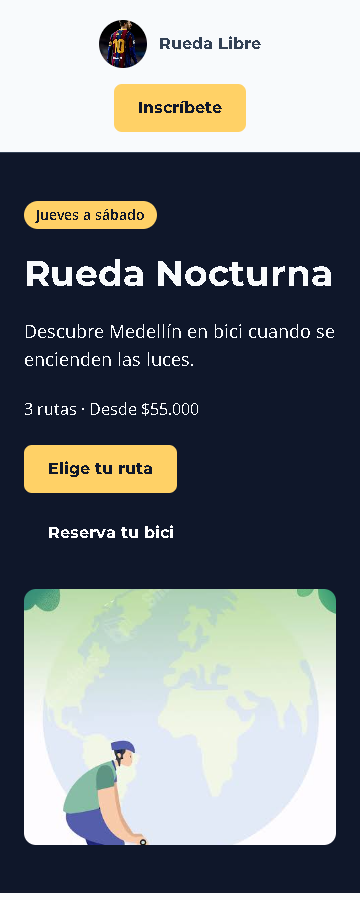
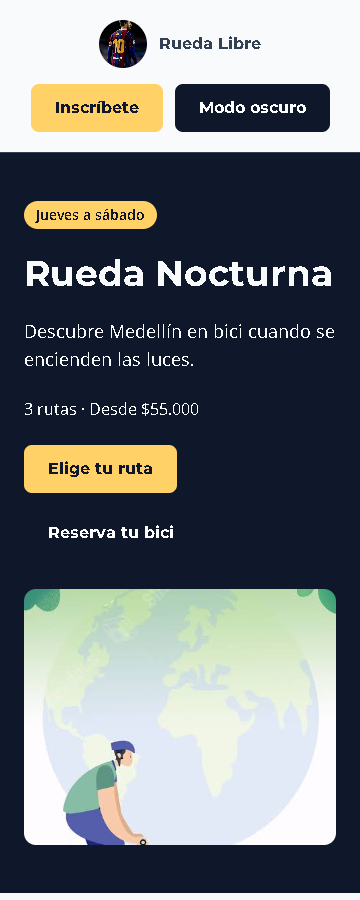
feat: añadir selector de modo oscuro y guardar la preferencia

Changed region(s): [[0.0611, 0.0933, 0.9167, 0.1556]]

diff --git a/nocturna/src/output.css b/nocturna/src/output.css
@@ -1,2 +1,2 @@
 /*! tailwindcss v4.3.4 | MIT License | https://tailwindcss.com */
-@layer properties{@supports (((-webkit-hyphens:none)) and (not (margin-trim:block))) or ((-moz-orient:inline) and (not (color:rgb(from red r g b)))){*,:before,:after,::backdrop{--tw-space-y-reverse:0;--tw-border-style:solid;--tw-leading:initial;--tw-font-weight:initial;--tw-tracking:initial;--tw-outline-style:solid}}}@layer theme{:root,:host{--font-sans:-apple-system, BlinkMacSystemFont, "Segoe UI", Roboto, "Helvetica Neue", "Noto Sans", Arial, sans-serif, "Apple Color Emoji", "Segoe UI Emoji", "Segoe UI Symbol", "Noto Color Emoji";--font-mono:ui-monospace, SFMono-Regular, Menlo, Monaco, Consolas, "Liberation Mono", "Courier New", monospace;--color-amber-300:oklch(87.9% .169 91.605);--color-slate-300:oklch(86.9% .022 252.894);--color-slate-950:oklch(12.9% .042 264.695);--color-white:#fff;--spacing:.25rem;--container-xl:36rem;--container-3xl:48rem;--container-6xl:72rem;--text-sm:.875rem;--text-sm--line-height:calc(1.25 / .875);--text-base:1rem;--text-base--line-height:calc(1.5 / 1);--text-lg:1.125rem;--text-lg--line-height:calc(1.75 / 1.125);--text-xl:1.25rem;--text-xl--line-height:calc(1.75 / 1.25);--text-2xl:1.5rem;--text-2xl--line-height:calc(2 / 1.5);--text-3xl:1.875rem;--text-3xl--line-height:calc(2.25 / 1.875);--text-4xl:2.25rem;--text-4xl--line-height:calc(2.5 / 2.25);--text-5xl:3rem;--text-5xl--line-height:1;--text-6xl:3.75rem;--text-6xl--line-height:1;--font-weight-normal:400;--font-weight-semibold:600;--font-weight-bold:700;--tracking-wide:.025em;--leading-tight:1.25;--leading-relaxed:1.625;--radius-lg:.5rem;--radius-xl:.75rem;--default-font-family:var(--font-sans);--default-mono-font-family:var(--font-mono);--color-verde-ruta:#0284c7;--color-azul-noche:#0f172a;--color-gris-asfalto:#334155;--color-crema:#f8fafc;--color-amarillo-farol:#ffd166;--font-titulo:"Montserrat", sans-serif;--font-cuerpo:"Open Sans", sans-serif}}@layer base{*,:after,:before,::backdrop{box-sizing:border-box;border:0 solid;margin:0;padding:0}::file-selector-button{box-sizing:border-box;border:0 solid;margin:0;padding:0}html,:host{-webkit-text-size-adjust:100%;tab-size:4;line-height:1.5;font-family:var(--default-font-family,-apple-system, BlinkMacSystemFont, "Segoe UI", Roboto, "Helvetica Neue", "Noto Sans", Arial, sans-serif, "Apple Color Emoji", "Segoe UI Emoji", "Segoe UI Symbol", "Noto Color Emoji");font-feature-settings:var(--default-font-feature-settings,normal);font-variation-settings:var(--default-font-variation-settings,normal);-webkit-tap-highlight-color:transparent}hr{height:0;color:inherit;border-top-width:1px}abbr:where([title]){-webkit-text-decoration:underline dotted;text-decoration:underline dotted}h1,h2,h3,h4,h5,h6{font-size:inherit;font-weight:inherit}a{color:inherit;-webkit-text-decoration:inherit;-webkit-text-decoration:inherit;-webkit-text-decoration:inherit;text-decoration:inherit}b,strong{font-weight:bolder}code,kbd,samp,pre{font-family:var(--default-mono-font-family,ui-monospace, SFMono-Regular, Menlo, Monaco, Consolas, "Liberation Mono", "Courier New", monospace);font-feature-settings:var(--default-mono-font-feature-settings,normal);font-variation-settings:var(--default-mono-font-variation-settings,normal);font-size:1em}small{font-size:80%}sub,sup{vertical-align:baseline;font-size:75%;line-height:0;position:relative}sub{bottom:-.25em}sup{top:-.5em}table{text-indent:0;border-color:inherit;border-collapse:collapse}:-moz-focusring:where(:not(iframe)){outline:auto}progress{vertical-align:baseline}summary{display:list-item}ol,ul,menu{list-style:none}img,svg,video,canvas,audio,iframe,embed,object{vertical-align:middle;display:block}img,video{max-width:100%;height:auto}button,input,select,optgroup,textarea{font:inherit;font-feature-settings:inherit;font-variation-settings:inherit;letter-spacing:inherit;color:inherit;opacity:1;background-color:#0000;border-radius:0}::file-selector-button{font:inherit;font-feature-settings:inherit;font-variation-settings:inherit;letter-spacing:inherit;color:inherit;opacity:1;background-color:#0000;border-radius:0}:where(select:is([multiple],[size])) optgroup{font-weight:bolder}:where(select:is([multiple],[size])) optgroup option{padding-inline-start:20px}::file-selector-button{margin-inline-end:4px}::placeholder{opacity:1}@supports (not ((-webkit-appearance:-apple-pay-button))) or (contain-intrinsic-size:1px){::placeholder{color:currentColor}@supports (color:color-mix(in lab, red, red)){::placeholder{color:color-mix(in oklab, currentcolor 50%, transparent)}}}textarea{resize:vertical}::-webkit-search-decoration{-webkit-appearance:none}::-webkit-date-and-time-value{min-height:1lh;text-align:inherit}::-webkit-datetime-edit{display:inline-flex}::-webkit-datetime-edit-fields-wrapper{padding:0}::-webkit-datetime-edit{padding-block:0}::-webkit-datetime-edit-year-field{padding-block:0}::-webkit-datetime-edit-month-field{padding-block:0}::-webkit-datetime-edit-day-field{padding-block:0}::-webkit-datetime-edit-hour-field{padding-block:0}::-webkit-datetime-edit-minute-field{padding-block:0}::-webkit-datetime-edit-second-field{padding-block:0}::-webkit-datetime-edit-millisecond-field{padding-block:0}::-webkit-datetime-edit-meridiem-field{padding-block:0}::-webkit-calendar-picker-indicator{line-height:1}:-moz-ui-invalid{box-shadow:none}button,input:where([type=button],[type=reset],[type=submit]){appearance:button}::file-selector-button{appearance:button}::-webkit-inner-spin-button{height:auto}::-webkit-outer-spin-button{height:auto}[hidden]:where(:not([hidden=until-found])){display:none!important}}@layer components{.btn-principal{border-radius:var(--radius-lg);background-color:var(--color-amarillo-farol);padding-inline:calc(var(--spacing) * 6);padding-block:calc(var(--spacing) * 3);font-family:var(--font-titulo);--tw-font-weight:var(--font-weight-bold);font-weight:var(--font-weight-bold);color:var(--color-azul-noche);justify-content:center;align-items:center;display:inline-flex}@media (hover:hover){.btn-principal:hover{background-color:var(--color-white)}}.btn-principal:focus-visible{outline-style:var(--tw-outline-style);outline-offset:4px;outline-width:2px;outline-color:var(--color-verde-ruta)}@media (prefers-color-scheme:dark){.btn-principal:focus-visible{outline-color:var(--color-amarillo-farol)}}.btn-secundario{border-radius:var(--radius-lg);background-color:var(--color-azul-noche);padding-inline:calc(var(--spacing) * 6);padding-block:calc(var(--spacing) * 3);font-family:var(--font-titulo);--tw-font-weight:var(--font-weight-bold);font-weight:var(--font-weight-bold);color:var(--color-white);justify-content:center;align-items:center;display:inline-flex}@media (hover:hover){.btn-secundario:hover{background-color:var(--color-gris-asfalto)}}.btn-secundario:focus-visible{outline-style:var(--tw-outline-style);outline-offset:4px;outline-width:2px;outline-color:var(--color-verde-ruta)}@media (prefers-color-scheme:dark){.btn-secundario{background-color:var(--color-crema);color:var(--color-azul-noche)}@media (hover:hover){.btn-secundario:hover{background-color:var(--color-amarillo-farol)}}.btn-secundario:focus-visible{outline-color:var(--color-amarillo-farol)}}}@layer utilities{.absolute{position:absolute}.relative{position:relative}.-top-4{top:calc(var(--spacing) * -4)}.left-6{left:calc(var(--spacing) * 6)}.mx-auto{margin-inline:auto}.block{display:block}.flex{display:flex}.grid{display:grid}.hidden{display:none}.inline-block{display:inline-block}.inline-flex{display:inline-flex}.h-5{height:calc(var(--spacing) * 5)}.h-10{height:calc(var(--spacing) * 10)}.h-12{height:calc(var(--spacing) * 12)}.h-40{height:calc(var(--spacing) * 40)}.h-64{height:calc(var(--spacing) * 64)}.h-full{height:100%}.w-5{width:calc(var(--spacing) * 5)}.w-10{width:calc(var(--spacing) * 10)}.w-12{width:calc(var(--spacing) * 12)}.w-full{width:100%}.max-w-3xl{max-width:var(--container-3xl)}.max-w-6xl{max-width:var(--container-6xl)}.max-w-xl{max-width:var(--container-xl)}.shrink-0{flex-shrink:0}.grow{flex-grow:1}.grid-cols-1{grid-template-columns:repeat(1,minmax(0,1fr))}.flex-col{flex-direction:column}.flex-wrap{flex-wrap:wrap}.items-center{align-items:center}.justify-between{justify-content:space-between}.justify-center{justify-content:center}.gap-2{gap:calc(var(--spacing) * 2)}.gap-3{gap:calc(var(--spacing) * 3)}.gap-4{gap:calc(var(--spacing) * 4)}.gap-6{gap:calc(var(--spacing) * 6)}.gap-8{gap:calc(var(--spacing) * 8)}:where(.space-y-2>:not(:last-child)){--tw-space-y-reverse:0;margin-block-start:calc(calc(var(--spacing) * 2) * var(--tw-space-y-reverse));margin-block-end:calc(calc(var(--spacing) * 2) * calc(1 - var(--tw-space-y-reverse)))}:where(.space-y-3>:not(:last-child)){--tw-space-y-reverse:0;margin-block-start:calc(calc(var(--spacing) * 3) * var(--tw-space-y-reverse));margin-block-end:calc(calc(var(--spacing) * 3) * calc(1 - var(--tw-space-y-reverse)))}:where(.space-y-4>:not(:last-child)){--tw-space-y-reverse:0;margin-block-start:calc(calc(var(--spacing) * 4) * var(--tw-space-y-reverse));margin-block-end:calc(calc(var(--spacing) * 4) * calc(1 - var(--tw-space-y-reverse)))}:where(.space-y-6>:not(:last-child)){--tw-space-y-reverse:0;margin-block-start:calc(calc(var(--spacing) * 6) * var(--tw-space-y-reverse));margin-block-end:calc(calc(var(--spacing) * 6) * calc(1 - var(--tw-space-y-reverse)))}:where(.space-y-8>:not(:last-child)){--tw-space-y-reverse:0;margin-block-start:calc(calc(var(--spacing) * 8) * var(--tw-space-y-reverse));margin-block-end:calc(calc(var(--spacing) * 8) * calc(1 - var(--tw-space-y-reverse)))}.self-start{align-self:flex-start}.rounded-full{border-radius:2147483647px}.rounded-lg{border-radius:var(--radius-lg)}.rounded-xl{border-radius:var(--radius-xl)}.border{border-style:var(--tw-border-style);border-width:1px}.border-t{border-top-style:var(--tw-border-style);border-top-width:1px}.border-t-4{border-top-style:var(--tw-border-style);border-top-width:4px}.border-b{border-bottom-style:var(--tw-border-style);border-bottom-width:1px}.border-azul-noche{border-color:var(--color-azul-noche)}.border-gris-asfalto{border-color:var(--color-gris-asfalto)}.bg-amarillo-farol{background-color:var(--color-amarillo-farol)}.bg-amber-300{background-color:var(--color-amber-300)}.bg-azul-noche{background-color:var(--color-azul-noche)}.bg-crema{background-color:var(--color-crema)}.bg-slate-950{background-color:var(--color-slate-950)}.bg-white{background-color:var(--color-white)}.object-cover{object-fit:cover}.p-6{padding:calc(var(--spacing) * 6)}.px-2{padding-inline:calc(var(--spacing) * 2)}.px-3{padding-inline:calc(var(--spacing) * 3)}.px-4{padding-inline:calc(var(--spacing) * 4)}.px-6{padding-inline:calc(var(--spacing) * 6)}.py-1{padding-block:var(--spacing)}.py-3{padding-block:calc(var(--spacing) * 3)}.py-5{padding-block:calc(var(--spacing) * 5)}.py-8{padding-block:calc(var(--spacing) * 8)}.py-12{padding-block:calc(var(--spacing) * 12)}.font-cuerpo{font-family:var(--font-cuerpo)}.font-sans{font-family:var(--font-sans)}.font-titulo{font-family:var(--font-titulo)}.text-2xl{font-size:var(--text-2xl);line-height:var(--tw-leading,var(--text-2xl--line-height))}.text-3xl{font-size:var(--text-3xl);line-height:var(--tw-leading,var(--text-3xl--line-height))}.text-4xl{font-size:var(--text-4xl);line-height:var(--tw-leading,var(--text-4xl--line-height))}.text-5xl{font-size:var(--text-5xl);line-height:var(--tw-leading,var(--text-5xl--line-height))}.text-base{font-size:var(--text-base);line-height:var(--tw-leading,var(--text-base--line-height))}.text-lg{font-size:var(--text-lg);line-height:var(--tw-leading,var(--text-lg--line-height))}.text-sm{font-size:var(--text-sm);line-height:var(--tw-leading,var(--text-sm--line-height))}.text-xl{font-size:var(--text-xl);line-height:var(--tw-leading,var(--text-xl--line-height))}.leading-relaxed{--tw-leading:var(--leading-relaxed);line-height:var(--leading-relaxed)}.leading-tight{--tw-leading:var(--leading-tight);line-height:var(--leading-tight)}.font-bold{--tw-font-weight:var(--font-weight-bold);font-weight:var(--font-weight-bold)}.font-normal{--tw-font-weight:var(--font-weight-normal);font-weight:var(--font-weight-normal)}.font-semibold{--tw-font-weight:var(--font-weight-semibold);font-weight:var(--font-weight-semibold)}.tracking-wide{--tw-tracking:var(--tracking-wide);letter-spacing:var(--tracking-wide)}.break-all{word-break:break-all}.text-amber-300{color:var(--color-amber-300)}.text-azul-noche{color:var(--color-azul-noche)}.text-crema{color:var(--color-crema)}.text-gris-asfalto{color:var(--color-gris-asfalto)}.text-slate-300{color:var(--color-slate-300)}.text-slate-950{color:var(--color-slate-950)}.text-white{color:var(--color-white)}.uppercase{text-transform:uppercase}.underline{text-decoration-line:underline}.accent-azul-noche{accent-color:var(--color-azul-noche)}@media (hover:hover){.hover\:underline:hover{text-decoration-line:underline}}.focus\:outline-2:focus{outline-style:var(--tw-outline-style);outline-width:2px}.focus\:outline-offset-2:focus{outline-offset:2px}.focus\:outline-verde-ruta:focus{outline-color:var(--color-verde-ruta)}@media (min-width:40rem){.sm\:grid-cols-2{grid-template-columns:repeat(2,minmax(0,1fr))}}@media (min-width:48rem){.md\:flex{display:flex}.md\:grid-cols-2{grid-template-columns:repeat(2,minmax(0,1fr))}.md\:flex-row{flex-direction:row}}@media (min-width:64rem){.lg\:h-80{height:calc(var(--spacing) * 80)}.lg\:grid-cols-3{grid-template-columns:repeat(3,minmax(0,1fr))}.lg\:grid-cols-4{grid-template-columns:repeat(4,minmax(0,1fr))}.lg\:py-20{padding-block:calc(var(--spacing) * 20)}.lg\:text-3xl{font-size:var(--text-3xl);line-height:var(--tw-leading,var(--text-3xl--line-height))}.lg\:text-6xl{font-size:var(--text-6xl);line-height:var(--tw-leading,var(--text-6xl--line-height))}.lg\:text-xl{font-size:var(--text-xl);line-height:var(--tw-leading,var(--text-xl--line-height))}}@media (prefers-color-scheme:dark){.dark\:border-amarillo-farol{border-color:var(--color-amarillo-farol)}.dark\:border-crema{border-color:var(--color-crema)}.dark\:bg-amarillo-farol{background-color:var(--color-amarillo-farol)}.dark\:bg-azul-noche{background-color:var(--color-azul-noche)}.dark\:bg-gris-asfalto{background-color:var(--color-gris-asfalto)}.dark\:text-amarillo-farol{color:var(--color-amarillo-farol)}.dark\:text-azul-noche{color:var(--color-azul-noche)}.dark\:text-crema{color:var(--color-crema)}.dark\:accent-amarillo-farol{accent-color:var(--color-amarillo-farol)}.dark\:focus\:outline-amarillo-farol:focus{outline-color:var(--color-amarillo-farol)}}}@property --tw-space-y-reverse{syntax:"*";inherits:false;initial-value:0}@property --tw-border-style{syntax:"*";inherits:false;initial-value:solid}@property --tw-leading{syntax:"*";inherits:false}@property --tw-font-weight{syntax:"*";inherits:false}@property --tw-tracking{syntax:"*";inherits:false}@property --tw-outline-style{syntax:"*";inherits:false;initial-value:solid}
+@layer properties{@supports (((-webkit-hyphens:none)) and (not (margin-trim:block))) or ((-moz-orient:inline) and (not (color:rgb(from red r g b)))){*,:before,:after,::backdrop{--tw-space-y-reverse:0;--tw-border-style:solid;--tw-leading:initial;--tw-font-weight:initial;--tw-tracking:initial;--tw-outline-style:solid}}}@layer theme{:root,:host{--font-sans:-apple-system, BlinkMacSystemFont, "Segoe UI", Roboto, "Helvetica Neue", "Noto Sans", Arial, sans-serif, "Apple Color Emoji", "Segoe UI Emoji", "Segoe UI Symbol", "Noto Color Emoji";--font-mono:ui-monospace, SFMono-Regular, Menlo, Monaco, Consolas, "Liberation Mono", "Courier New", monospace;--color-amber-300:oklch(87.9% .169 91.605);--color-slate-300:oklch(86.9% .022 252.894);--color-slate-950:oklch(12.9% .042 264.695);--color-white:#fff;--spacing:.25rem;--container-xl:36rem;--container-3xl:48rem;--container-6xl:72rem;--text-sm:.875rem;--text-sm--line-height:calc(1.25 / .875);--text-base:1rem;--text-base--line-height:calc(1.5 / 1);--text-lg:1.125rem;--text-lg--line-height:calc(1.75 / 1.125);--text-xl:1.25rem;--text-xl--line-height:calc(1.75 / 1.25);--text-2xl:1.5rem;--text-2xl--line-height:calc(2 / 1.5);--text-3xl:1.875rem;--text-3xl--line-height:calc(2.25 / 1.875);--text-4xl:2.25rem;--text-4xl--line-height:calc(2.5 / 2.25);--text-5xl:3rem;--text-5xl--line-height:1;--text-6xl:3.75rem;--text-6xl--line-height:1;--font-weight-normal:400;--font-weight-semibold:600;--font-weight-bold:700;--tracking-wide:.025em;--leading-tight:1.25;--leading-relaxed:1.625;--radius-lg:.5rem;--radius-xl:.75rem;--default-font-family:var(--font-sans);--default-mono-font-family:var(--font-mono);--color-verde-ruta:#0284c7;--color-azul-noche:#0f172a;--color-gris-asfalto:#334155;--color-crema:#f8fafc;--color-amarillo-farol:#ffd166;--font-titulo:"Montserrat", sans-serif;--font-cuerpo:"Open Sans", sans-serif}}@layer base{*,:after,:before,::backdrop{box-sizing:border-box;border:0 solid;margin:0;padding:0}::file-selector-button{box-sizing:border-box;border:0 solid;margin:0;padding:0}html,:host{-webkit-text-size-adjust:100%;tab-size:4;line-height:1.5;font-family:var(--default-font-family,-apple-system, BlinkMacSystemFont, "Segoe UI", Roboto, "Helvetica Neue", "Noto Sans", Arial, sans-serif, "Apple Color Emoji", "Segoe UI Emoji", "Segoe UI Symbol", "Noto Color Emoji");font-feature-settings:var(--default-font-feature-settings,normal);font-variation-settings:var(--default-font-variation-settings,normal);-webkit-tap-highlight-color:transparent}hr{height:0;color:inherit;border-top-width:1px}abbr:where([title]){-webkit-text-decoration:underline dotted;text-decoration:underline dotted}h1,h2,h3,h4,h5,h6{font-size:inherit;font-weight:inherit}a{color:inherit;-webkit-text-decoration:inherit;-webkit-text-decoration:inherit;-webkit-text-decoration:inherit;text-decoration:inherit}b,strong{font-weight:bolder}code,kbd,samp,pre{font-family:var(--default-mono-font-family,ui-monospace, SFMono-Regular, Menlo, Monaco, Consolas, "Liberation Mono", "Courier New", monospace);font-feature-settings:var(--default-mono-font-feature-settings,normal);font-variation-settings:var(--default-mono-font-variation-settings,normal);font-size:1em}small{font-size:80%}sub,sup{vertical-align:baseline;font-size:75%;line-height:0;position:relative}sub{bottom:-.25em}sup{top:-.5em}table{text-indent:0;border-color:inherit;border-collapse:collapse}:-moz-focusring:where(:not(iframe)){outline:auto}progress{vertical-align:baseline}summary{display:list-item}ol,ul,menu{list-style:none}img,svg,video,canvas,audio,iframe,embed,object{vertical-align:middle;display:block}img,video{max-width:100%;height:auto}button,input,select,optgroup,textarea{font:inherit;font-feature-settings:inherit;font-variation-settings:inherit;letter-spacing:inherit;color:inherit;opacity:1;background-color:#0000;border-radius:0}::file-selector-button{font:inherit;font-feature-settings:inherit;font-variation-settings:inherit;letter-spacing:inherit;color:inherit;opacity:1;background-color:#0000;border-radius:0}:where(select:is([multiple],[size])) optgroup{font-weight:bolder}:where(select:is([multiple],[size])) optgroup option{padding-inline-start:20px}::file-selector-button{margin-inline-end:4px}::placeholder{opacity:1}@supports (not ((-webkit-appearance:-apple-pay-button))) or (contain-intrinsic-size:1px){::placeholder{color:currentColor}@supports (color:color-mix(in lab, red, red)){::placeholder{color:color-mix(in oklab, currentcolor 50%, transparent)}}}textarea{resize:vertical}::-webkit-search-decoration{-webkit-appearance:none}::-webkit-date-and-time-value{min-height:1lh;text-align:inherit}::-webkit-datetime-edit{display:inline-flex}::-webkit-datetime-edit-fields-wrapper{padding:0}::-webkit-datetime-edit{padding-block:0}::-webkit-datetime-edit-year-field{padding-block:0}::-webkit-datetime-edit-month-field{padding-block:0}::-webkit-datetime-edit-day-field{padding-block:0}::-webkit-datetime-edit-hour-field{padding-block:0}::-webkit-datetime-edit-minute-field{padding-block:0}::-webkit-datetime-edit-second-field{padding-block:0}::-webkit-datetime-edit-millisecond-field{padding-block:0}::-webkit-datetime-edit-meridiem-field{padding-block:0}::-webkit-calendar-picker-indicator{line-height:1}:-moz-ui-invalid{box-shadow:none}button,input:where([type=button],[type=reset],[type=submit]){appearance:button}::file-selector-button{appearance:button}::-webkit-inner-spin-button{height:auto}::-webkit-outer-spin-button{height:auto}[hidden]:where(:not([hidden=until-found])){display:none!important}:root{color-scheme:light}:root.dark{color-scheme:dark}}@layer components{.btn-principal{border-radius:var(--radius-lg);background-color:var(--color-amarillo-farol);padding-inline:calc(var(--spacing) * 6);padding-block:calc(var(--spacing) * 3);font-family:var(--font-titulo);--tw-font-weight:var(--font-weight-bold);font-weight:var(--font-weight-bold);color:var(--color-azul-noche);justify-content:center;align-items:center;display:inline-flex}@media (hover:hover){.btn-principal:hover{background-color:var(--color-white)}}.btn-principal:focus-visible{outline-style:var(--tw-outline-style);outline-offset:4px;outline-width:2px;outline-color:var(--color-verde-ruta)}.btn-principal:where(.dark,.dark *):focus-visible{outline-color:var(--color-amarillo-farol)}.btn-secundario{border-radius:var(--radius-lg);background-color:var(--color-azul-noche);padding-inline:calc(var(--spacing) * 6);padding-block:calc(var(--spacing) * 3);font-family:var(--font-titulo);--tw-font-weight:var(--font-weight-bold);font-weight:var(--font-weight-bold);color:var(--color-white);justify-content:center;align-items:center;display:inline-flex}@media (hover:hover){.btn-secundario:hover{background-color:var(--color-gris-asfalto)}}.btn-secundario:focus-visible{outline-style:var(--tw-outline-style);outline-offset:4px;outline-width:2px;outline-color:var(--color-verde-ruta)}.btn-secundario:where(.dark,.dark *){background-color:var(--color-crema);color:var(--color-azul-noche)}@media (hover:hover){.btn-secundario:where(.dark,.dark *):hover{background-color:var(--color-amarillo-farol)}}.btn-secundario:where(.dark,.dark *):focus-visible{outline-color:var(--color-amarillo-farol)}}@layer utilities{.absolute{position:absolute}.relative{position:relative}.-top-4{top:calc(var(--spacing) * -4)}.left-6{left:calc(var(--spacing) * 6)}.mx-auto{margin-inline:auto}.block{display:block}.flex{display:flex}.grid{display:grid}.hidden{display:none}.inline-block{display:inline-block}.inline-flex{display:inline-flex}.h-5{height:calc(var(--spacing) * 5)}.h-10{height:calc(var(--spacing) * 10)}.h-12{height:calc(var(--spacing) * 12)}.h-40{height:calc(var(--spacing) * 40)}.h-64{height:calc(var(--spacing) * 64)}.h-full{height:100%}.w-5{width:calc(var(--spacing) * 5)}.w-10{width:calc(var(--spacing) * 10)}.w-12{width:calc(var(--spacing) * 12)}.w-full{width:100%}.max-w-3xl{max-width:var(--container-3xl)}.max-w-6xl{max-width:var(--container-6xl)}.max-w-xl{max-width:var(--container-xl)}.shrink-0{flex-shrink:0}.grow{flex-grow:1}.grid-cols-1{grid-template-columns:repeat(1,minmax(0,1fr))}.flex-col{flex-direction:column}.flex-wrap{flex-wrap:wrap}.items-center{align-items:center}.justify-between{justify-content:space-between}.justify-center{justify-content:center}.gap-2{gap:calc(var(--spacing) * 2)}.gap-3{gap:calc(var(--spacing) * 3)}.gap-4{gap:calc(var(--spacing) * 4)}.gap-6{gap:calc(var(--spacing) * 6)}.gap-8{gap:calc(var(--spacing) * 8)}:where(.space-y-2>:not(:last-child)){--tw-space-y-reverse:0;margin-block-start:calc(calc(var(--spacing) * 2) * var(--tw-space-y-reverse));margin-block-end:calc(calc(var(--spacing) * 2) * calc(1 - var(--tw-space-y-reverse)))}:where(.space-y-3>:not(:last-child)){--tw-space-y-reverse:0;margin-block-start:calc(calc(var(--spacing) * 3) * var(--tw-space-y-reverse));margin-block-end:calc(calc(var(--spacing) * 3) * calc(1 - var(--tw-space-y-reverse)))}:where(.space-y-4>:not(:last-child)){--tw-space-y-reverse:0;margin-block-start:calc(calc(var(--spacing) * 4) * var(--tw-space-y-reverse));margin-block-end:calc(calc(var(--spacing) * 4) * calc(1 - var(--tw-space-y-reverse)))}:where(.space-y-6>:not(:last-child)){--tw-space-y-reverse:0;margin-block-start:calc(calc(var(--spacing) * 6) * var(--tw-space-y-reverse));margin-block-end:calc(calc(var(--spacing) * 6) * calc(1 - var(--tw-space-y-reverse)))}:where(.space-y-8>:not(:last-child)){--tw-space-y-reverse:0;margin-block-start:calc(calc(var(--spacing) * 8) * var(--tw-space-y-reverse));margin-block-end:calc(calc(var(--spacing) * 8) * calc(1 - var(--tw-space-y-reverse)))}.self-start{align-self:flex-start}.rounded-full{border-radius:2147483647px}.rounded-lg{border-radius:var(--radius-lg)}.rounded-xl{border-radius:var(--radius-xl)}.border{border-style:var(--tw-border-style);border-width:1px}.border-t{border-top-style:var(--tw-border-style);border-top-width:1px}.border-t-4{border-top-style:var(--tw-border-style);border-top-width:4px}.border-b{border-bottom-style:var(--tw-border-style);border-bottom-width:1px}.border-azul-noche{border-color:var(--color-azul-noche)}.border-gris-asfalto{border-color:var(--color-gris-asfalto)}.bg-amarillo-farol{background-color:var(--color-amarillo-farol)}.bg-amber-300{background-color:var(--color-amber-300)}.bg-azul-noche{background-color:var(--color-azul-noche)}.bg-crema{background-color:var(--color-crema)}.bg-slate-950{background-color:var(--color-slate-950)}.bg-white{background-color:var(--color-white)}.object-cover{object-fit:cover}.p-6{padding:calc(var(--spacing) * 6)}.px-2{padding-inline:calc(var(--spacing) * 2)}.px-3{padding-inline:calc(var(--spacing) * 3)}.px-4{padding-inline:calc(var(--spacing) * 4)}.px-6{padding-inline:calc(var(--spacing) * 6)}.py-1{padding-block:var(--spacing)}.py-3{padding-block:calc(var(--spacing) * 3)}.py-5{padding-block:calc(var(--spacing) * 5)}.py-8{padding-block:calc(var(--spacing) * 8)}.py-12{padding-block:calc(var(--spacing) * 12)}.font-cuerpo{font-family:var(--font-cuerpo)}.font-sans{font-family:var(--font-sans)}.font-titulo{font-family:var(--font-titulo)}.text-2xl{font-size:var(--text-2xl);line-height:var(--tw-leading,var(--text-2xl--line-height))}.text-3xl{font-size:var(--text-3xl);line-height:var(--tw-leading,var(--text-3xl--line-height))}.text-4xl{font-size:var(--text-4xl);line-height:var(--tw-leading,var(--text-4xl--line-height))}.text-5xl{font-size:var(--text-5xl);line-height:var(--tw-leading,var(--text-5xl--line-height))}.text-base{font-size:var(--text-base);line-height:var(--tw-leading,var(--text-base--line-height))}.text-lg{font-size:var(--text-lg);line-height:var(--tw-leading,var(--text-lg--line-height))}.text-sm{font-size:var(--text-sm);line-height:var(--tw-leading,var(--text-sm--line-height))}.text-xl{font-size:var(--text-xl);line-height:var(--tw-leading,var(--text-xl--line-height))}.leading-relaxed{--tw-leading:var(--leading-relaxed);line-height:var(--leading-relaxed)}.leading-tight{--tw-leading:var(--leading-tight);line-height:var(--leading-tight)}.font-bold{--tw-font-weight:var(--font-weight-bold);font-weight:var(--font-weight-bold)}.font-normal{--tw-font-weight:var(--font-weight-normal);font-weight:var(--font-weight-normal)}.font-semibold{--tw-font-weight:var(--font-weight-semibold);font-weight:var(--font-weight-semibold)}.tracking-wide{--tw-tracking:var(--tracking-wide);letter-spacing:var(--tracking-wide)}.break-all{word-break:break-all}.text-amber-300{color:var(--color-amber-300)}.text-azul-noche{color:var(--color-azul-noche)}.text-crema{color:var(--color-crema)}.text-gris-asfalto{color:var(--color-gris-asfalto)}.text-slate-300{color:var(--color-slate-300)}.text-slate-950{color:var(--color-slate-950)}.text-white{color:var(--color-white)}.uppercase{text-transform:uppercase}.underline{text-decoration-line:underline}.accent-azul-noche{accent-color:var(--color-azul-noche)}@media (hover:hover){.hover\:underline:hover{text-decoration-line:underline}}.focus\:outline-2:focus{outline-style:var(--tw-outline-style);outline-width:2px}.focus\:outline-offset-2:focus{outline-offset:2px}.focus\:outline-verde-ruta:focus{outline-color:var(--color-verde-ruta)}@media (min-width:40rem){.sm\:grid-cols-2{grid-template-columns:repeat(2,minmax(0,1fr))}}@media (min-width:48rem){.md\:flex{display:flex}.md\:grid-cols-2{grid-template-columns:repeat(2,minmax(0,1fr))}.md\:flex-row{flex-direction:row}}@media (min-width:64rem){.lg\:h-80{height:calc(var(--spacing) * 80)}.lg\:grid-cols-3{grid-template-columns:repeat(3,minmax(0,1fr))}.lg\:grid-cols-4{grid-template-columns:repeat(4,minmax(0,1fr))}.lg\:gap-6{gap:calc(var(--spacing) * 6)}.lg\:py-20{padding-block:calc(var(--spacing) * 20)}.lg\:text-3xl{font-size:var(--text-3xl);line-height:var(--tw-leading,var(--text-3xl--line-height))}.lg\:text-6xl{font-size:var(--text-6xl);line-height:var(--tw-leading,var(--text-6xl--line-height))}.lg\:text-xl{font-size:var(--text-xl);line-height:var(--tw-leading,var(--text-xl--line-height))}}.dark\:border-amarillo-farol:where(.dark,.dark *){border-color:var(--color-amarillo-farol)}.dark\:border-crema:where(.dark,.dark *){border-color:var(--color-crema)}.dark\:bg-amarillo-farol:where(.dark,.dark *){background-color:var(--color-amarillo-farol)}.dark\:bg-azul-noche:where(.dark,.dark *){background-color:var(--color-azul-noche)}.dark\:bg-gris-asfalto:where(.dark,.dark *){background-color:var(--color-gris-asfalto)}.dark\:text-amarillo-farol:where(.dark,.dark *){color:var(--color-amarillo-farol)}.dark\:text-azul-noche:where(.dark,.dark *){color:var(--color-azul-noche)}.dark\:text-crema:where(.dark,.dark *){color:var(--color-crema)}.dark\:accent-amarillo-farol:where(.dark,.dark *){accent-color:var(--color-amarillo-farol)}.dark\:focus\:outline-amarillo-farol:where(.dark,.dark *):focus{outline-color:var(--color-amarillo-farol)}}@property --tw-space-y-reverse{syntax:"*";inherits:false;initial-value:0}@property --tw-border-style{syntax:"*";inherits:false;initial-value:solid}@property --tw-leading{syntax:"*";inherits:false}@property --tw-font-weight{syntax:"*";inherits:false}@property --tw-tracking{syntax:"*";inherits:false}@property --tw-outline-style{syntax:"*";inherits:false;initial-value:solid}

diff --git a/nocturna/index.html b/nocturna/index.html
@@ -10,6 +10,7 @@
     <link rel="preconnect" href="https://fonts.gstatic.com" crossorigin>
     <link href="https://fonts.googleapis.com/css2?family=Montserrat:wght@600;700&family=Open+Sans:wght@400;600&display=swap" rel="stylesheet">
     <link rel="stylesheet" href="src/output.css">
+    <script src="tema.js"></script>
 </head>
 <body class="bg-crema font-cuerpo text-gris-asfalto dark:bg-azul-noche dark:text-crema">
     <header class="border-b border-gris-asfalto dark:border-crema">
@@ -18,13 +19,14 @@
                 <img src="../img/images.jpeg" alt="" width="48" height="48" class="h-12 w-12 rounded-full object-cover">
                 Rueda Libre
             </a>
-            <nav aria-label="Navegación principal" class="flex items-center gap-6">
+            <nav aria-label="Navegación principal" class="flex flex-wrap items-center justify-center gap-3 lg:gap-6">
                 <div class="hidden items-center gap-6 md:flex">
                     <a href="#inicio" class="hover:underline">Inicio</a>
                     <a href="#rutas" class="hover:underline">Rutas</a>
                     <a href="#como-funciona" class="hover:underline">¿Cómo funciona?</a>
                 </div>
                 <a href="#inscripcion" class="btn-principal">Inscríbete</a>
+                <button id="cambiar-tema" type="button" class="btn-secundario">Modo oscuro</button>
             </nav>
         </div>
     </header>

diff --git a/nocturna/tema.js b/nocturna/tema.js
@@ -1,0 +1,34 @@
+const sistema = window.matchMedia('(prefers-color-scheme: dark)');
+let temaGuardado = null;
+
+try {
+    temaGuardado = localStorage.getItem('rueda-libre-tema');
+} catch {}
+
+if (temaGuardado !== 'dark' && temaGuardado !== 'light') temaGuardado = null;
+
+function aplicarTema(oscuro) {
+    document.documentElement.classList.toggle('dark', oscuro);
+    const boton = document.querySelector('#cambiar-tema');
+    if (boton) boton.textContent = oscuro ? 'Modo claro' : 'Modo oscuro';
+}
+
+aplicarTema(temaGuardado ? temaGuardado === 'dark' : sistema.matches);
+
+document.addEventListener('DOMContentLoaded', () => {
+    aplicarTema(document.documentElement.classList.contains('dark'));
+
+    document.querySelector('#cambiar-tema').addEventListener('click', () => {
+        const oscuro = !document.documentElement.classList.contains('dark');
+        temaGuardado = oscuro ? 'dark' : 'light';
+        aplicarTema(oscuro);
+
+        try {
+            localStorage.setItem('rueda-libre-tema', temaGuardado);
+        } catch {}
+    });
+});
+
+sistema.addEventListener('change', (evento) => {
+    if (!temaGuardado) aplicarTema(evento.matches);
+});

diff --git a/nocturna/componentes.html b/nocturna/componentes.html
@@ -10,11 +10,15 @@
     <link rel="preconnect" href="https://fonts.gstatic.com" crossorigin>
     <link href="https://fonts.googleapis.com/css2?family=Montserrat:wght@600;700&family=Open+Sans:wght@400;600&display=swap" rel="stylesheet">
     <link rel="stylesheet" href="src/output.css">
+    <script src="tema.js"></script>
 </head>
 <body class="bg-crema font-cuerpo text-gris-asfalto dark:bg-azul-noche dark:text-crema">
     <main class="mx-auto max-w-6xl space-y-8 px-6 py-12 lg:py-20">
         <h1 class="font-titulo text-3xl font-bold">Kit de Rueda Nocturna</h1>
-        <a href="index.html" class="underline">Volver a la landing</a>
+        <div class="flex flex-wrap items-center justify-between gap-4">
+            <a href="index.html" class="underline">Volver a la landing</a>
+            <button id="cambiar-tema" type="button" class="btn-secundario">Modo oscuro</button>
+        </div>
         <section id="botones" class="space-y-4">
             <h2 class="font-titulo text-2xl font-bold">Botones</h2>
             <div class="flex flex-wrap gap-4">

diff --git a/nocturna/src/input.css b/nocturna/src/input.css
@@ -1,5 +1,11 @@
 @import "tailwindcss";
 @source "../*.html";
+@custom-variant dark (&:where(.dark, .dark *));
+
+@layer base {
+  :root { color-scheme: light; }
+  :root.dark { color-scheme: dark; }
+}
 
 @theme {
   --color-verde-ruta: #0284c7;

diff --git a/README.md b/README.md
@@ -42,12 +42,13 @@ npm run build
 
 Se revisaron las paginas a 360, 768 y 1280 px, y la landing tambien a 1024 px. El formulario bloquea datos vacios o invalidos y se puede completar con teclado.
 La landing y reservas quedaron sin errores en el W3C. Tambien se revisaron el contraste, el modo oscuro y los enlaces publicados.
+El boton Modo oscuro permite cambiar el tema en la landing y el kit. Guarda la elección al recargar, si no hay una elección usa el tema del sistema.
 
 ## Bootstrap o Tailwind
 
 Bootstrap me ayudo a empezar con las columnas y el carrusel. Con Tailwind tuve que aprender mas clases, pero fue mas facil organizar la landing y personalizarla.
 
-Bootstrap carga 232.803 bytes de CSS y 80.721 de JavaScript. La landing tiene 14.878 bytes de CSS y 1.278 de JavaScript propio, sin contar imagenes ni fuentes. Bootstrap tambien usa mis hojas de CSS.
+Bootstrap carga 232.803 bytes de CSS y 80.721 de JavaScript. La landing tiene 15.158 bytes de CSS y 2.410 de JavaScript propio, sin contar imagenes ni fuentes. Bootstrap tambien usa mis hojas de CSS.
 Para la siguiente version recomiendo Tailwind por el tamaño y la personalización, dejaria Bootstrap en las paginas que ya funcionan.
 
 ## Capturas
